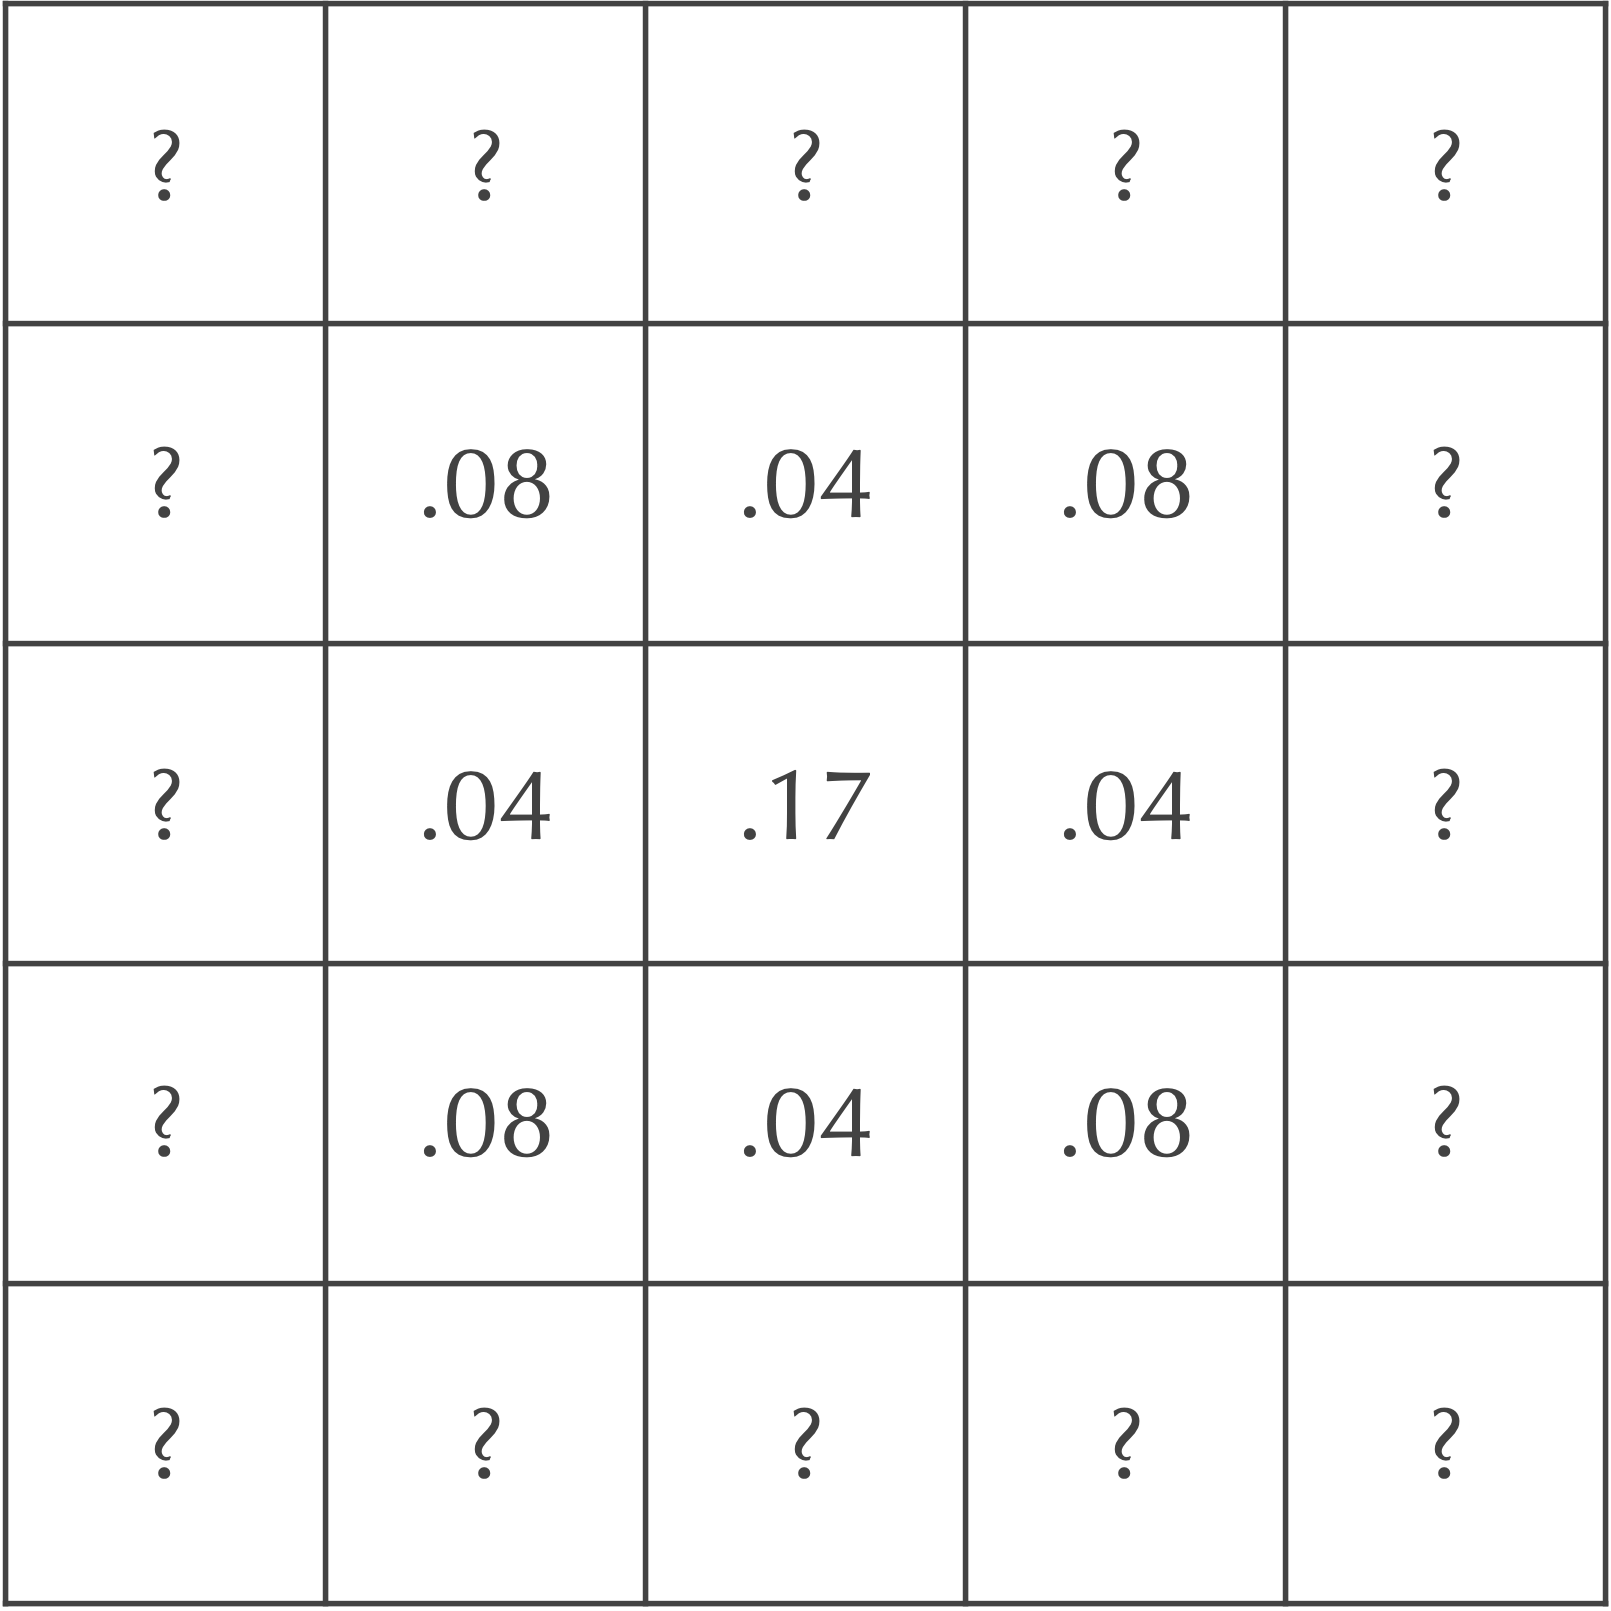
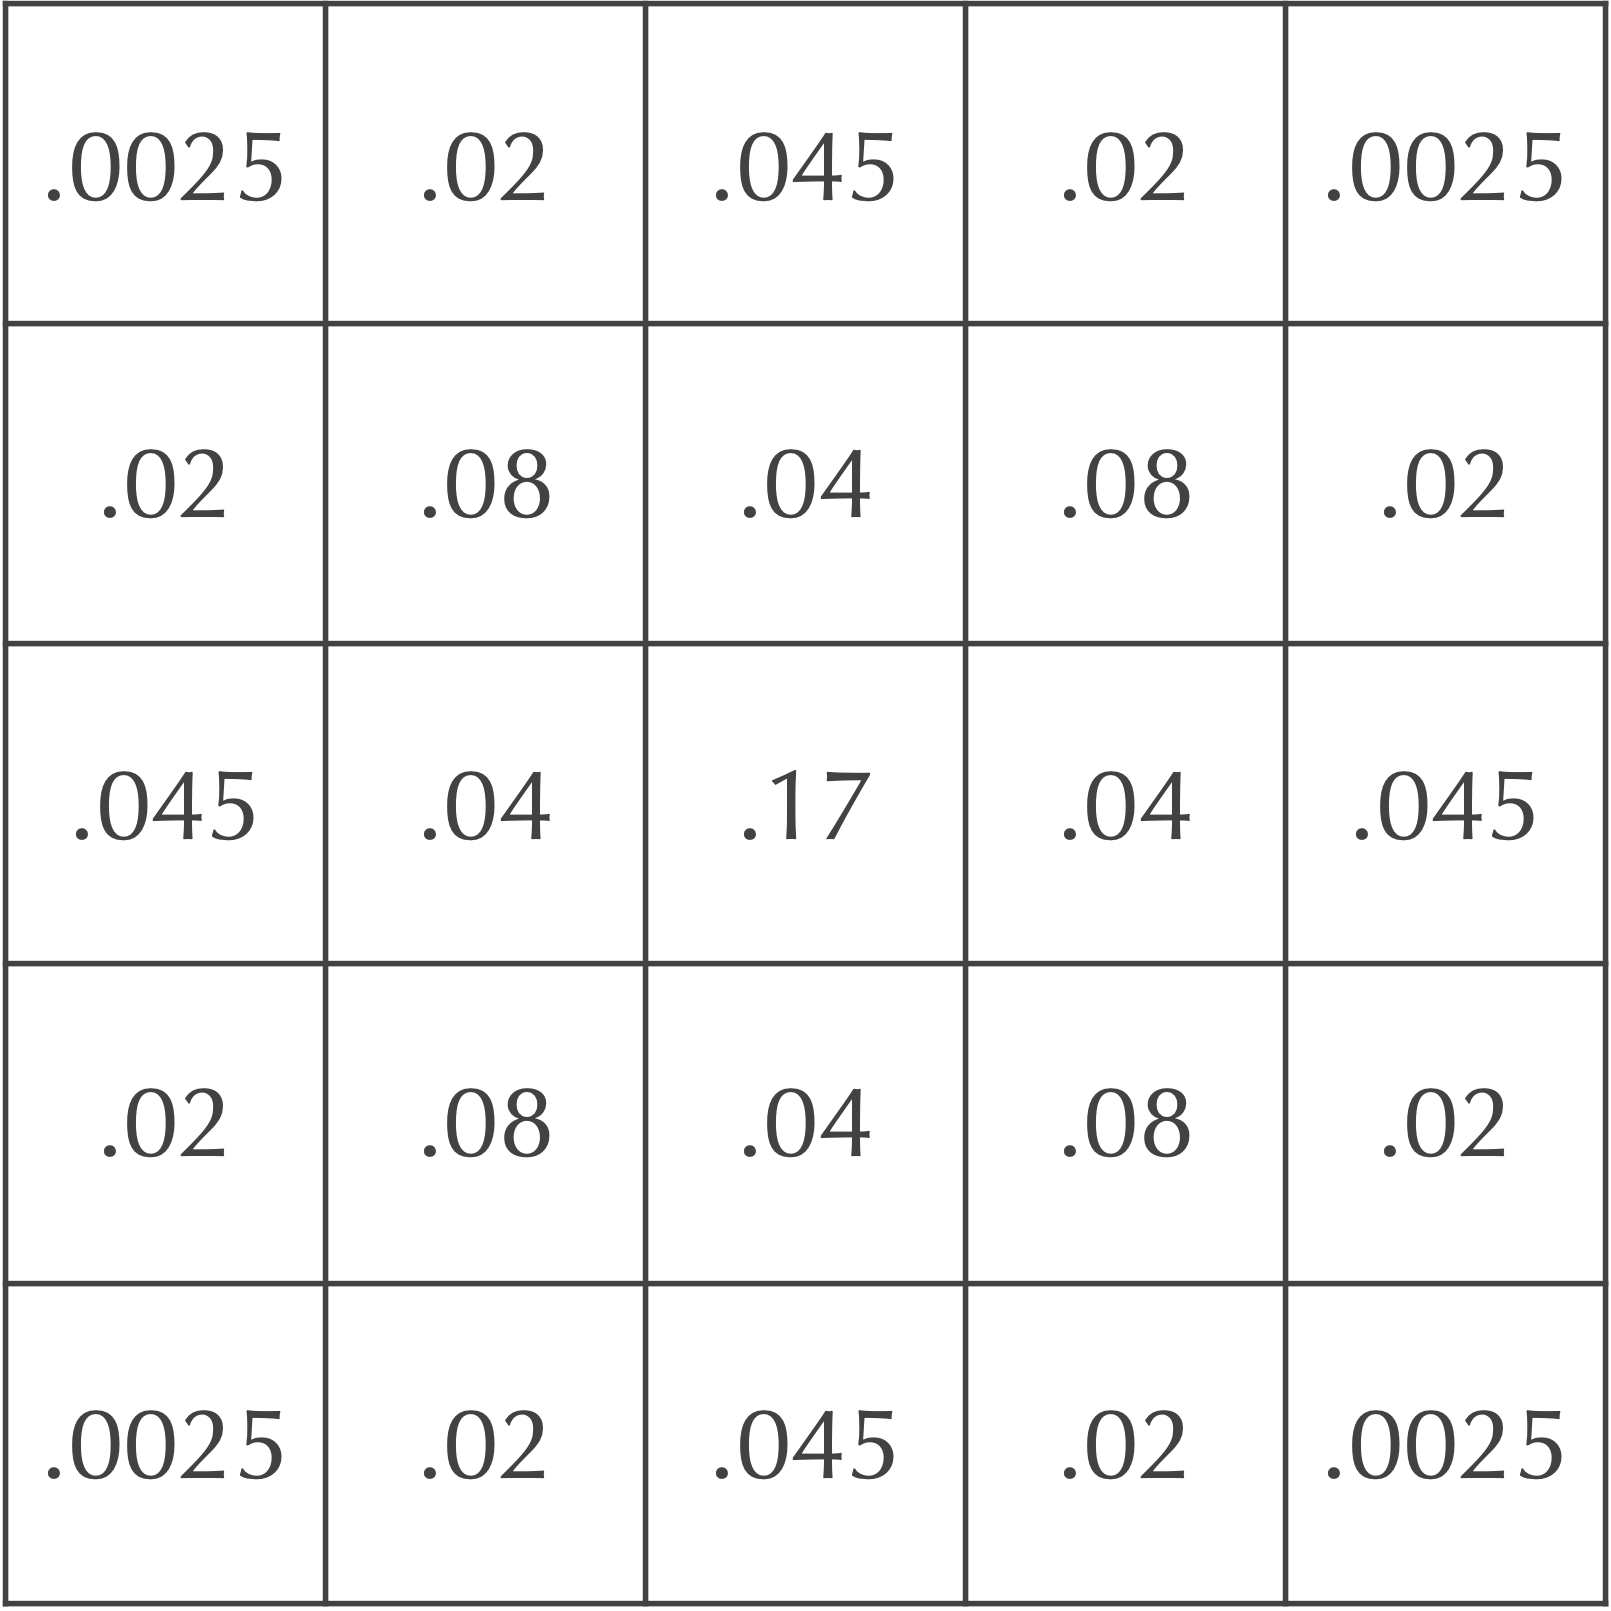
minor fix to figures

diff --git a/_pages/prologue/prologue_blocks.md b/_pages/prologue/prologue_blocks.md
@@ -50,7 +50,7 @@ As a result, the central nine squares after two time steps are as shown in the f
 * Have a "click here for answer" with a linked image. Figure is below.
 
 <center>
-<img src = "../assets/images/A_concentration_two_time_steps_partial.png" width="300">
+<img src = "../assets/images/A_concentration_two_time_steps_complete.png" width="300">
 </center>
 
 ## Slowing down diffusion
